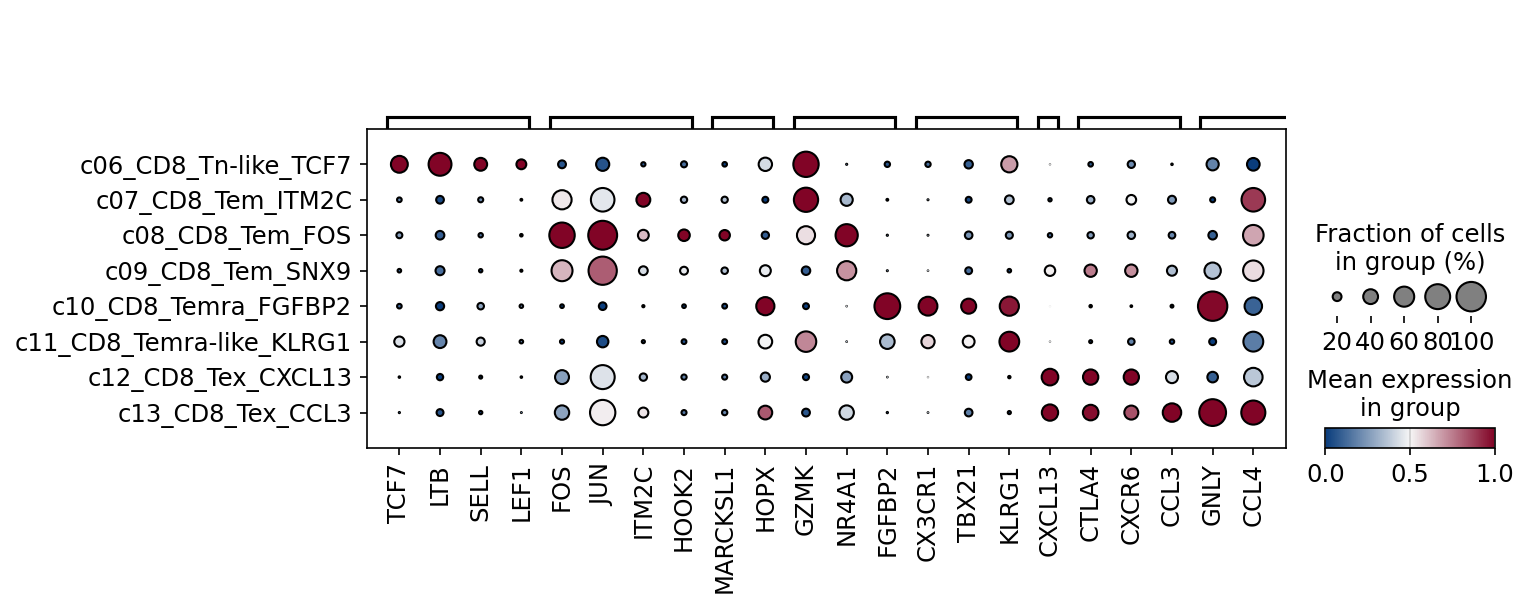
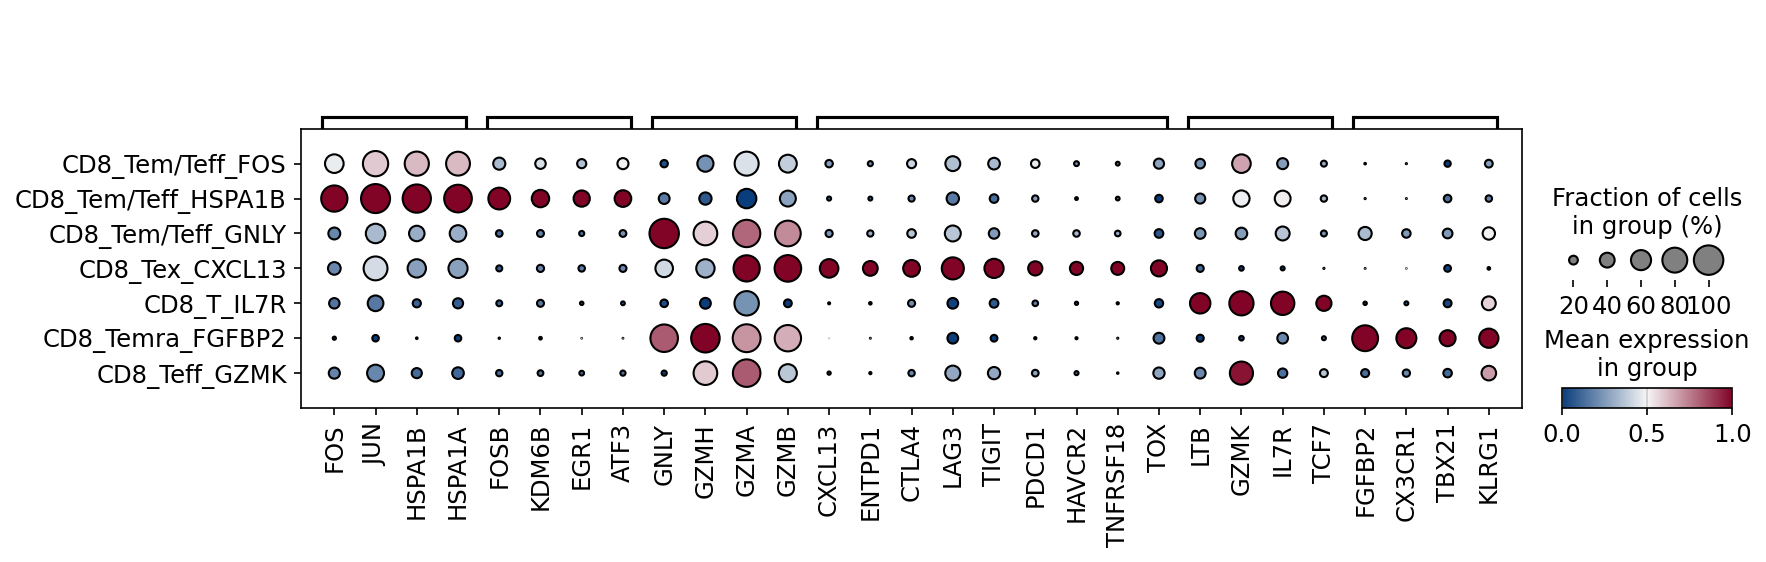
tht

Changed region(s): [[0.0, 0.1815, 1.0, 0.968], [0.2767, 0.6655, 0.3074, 0.6957]]

diff --git a/Notebook_THT/探索过程/第二次亚群注释-T细胞.md b/Notebook_THT/探索过程/第二次亚群注释-T细胞.md
@@ -956,7 +956,57 @@ sc.pl.rank_genes_groups_dotplot(
 就res0.8吧，没招了
 
 ### 添加最终注释
-### dotplot
-### umap blood vs tumor
+0:Tem/Teff markergene是FOS,JUN
+4:Tem/Teff markergene是FOS,JUN,FOSB,KDM6B,ERG1,ATF3
+3:Tem/Teff GNLY,GZMH,GZMA,GZMB
+5:Tex "PDCD1", "HAVCR2", "LAG3", "LAYN", "TIGIT", "ENTPD1", "CXCL13", "CTLA4", "TNFRSF18", "TOX"
+6:T,marker_gene为LTB,GZMK,IL7R,TCF7
+1:Temra,makergene为FGFBP2,CX3CR1,TBX21,KLRG1
+2:Teff,没有很好的markgene GZMK,GZMH,GZMB
 
-今天先到这吧，我累了
+### dotplot
+```
+cl_annotation = {
+        "0": "CD8_Tem/Teff_FOS",
+        "4": "CD8_Tem/Teff_HSPA1B",
+        "3": "CD8_Tem/Teff_GNLY",
+        "5": "CD8_Tex_CXCL13",
+        "6": "CD8_T_IL7R",
+        "1": "CD8_Temra_FGFBP2",
+        "2": "CD8_Teff_GZMK"
+    }
+adata.obs["minor_celltype"]=adata.obs.leiden_res0_8.map(cl_annotation)
+adata.write("RData/CD8T_annotated.h5ad")
+marker_genes = [
+  "FOS","JUN","HSPA1B","HSPA1A",
+  "FOSB","KDM6B","EGR1","ATF3",
+  "GNLY","GZMH","GZMA","GZMB",
+  "CXCL13","ENTPD1","CTLA4","LAG3","TIGIT","PDCD1","HAVCR2","TNFRSF18","TOX",
+  "LTB","GZMK","IL7R","TCF7",
+"FGFBP2","CX3CR1","TBX21","KLRG1"
+]
+from matplotlib.colors import LinearSegmentedColormap
+custom_cmap = LinearSegmentedColormap.from_list("custom", ["#0A3D7C", "#F6F6F6", "#810426"])
+dp = sc.pl.dotplot(
+        adata,
+        groupby="minor_celltype",
+        categories_order = ["CD8_Tem/Teff_FOS",
+                            "CD8_Tem/Teff_HSPA1B",
+                            "CD8_Tem/Teff_GNLY",
+                            "CD8_Tex_CXCL13",
+                            "CD8_T_IL7R",
+                            "CD8_Temra_FGFBP2",
+                            "CD8_Teff_GZMK"],
+        var_names=marker_genes,
+        standard_scale="var",
+        return_fig=True,
+        var_group_labels="      ",
+        var_group_positions = [(0,3),(4,7),(8,11),
+        (12,20),(21,24),(25,28)],
+        cmap = custom_cmap
+    )
+dp.style(dot_edge_color='black', dot_edge_lw=1).savefig("plots/dotplot_CD8T.png")
+
+```
+<img src="..\figures\dotplot_CD8T.png">
+### umap blood vs tumor
